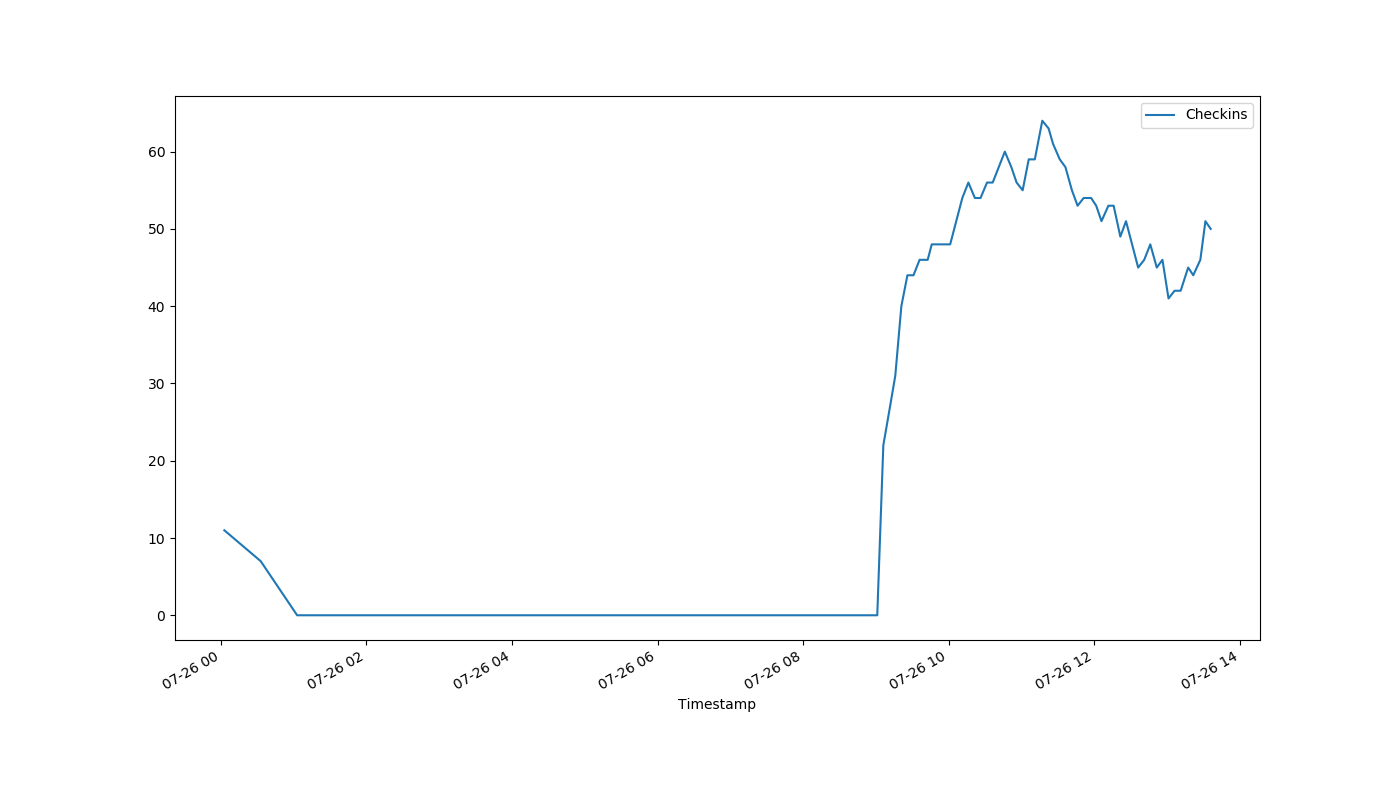
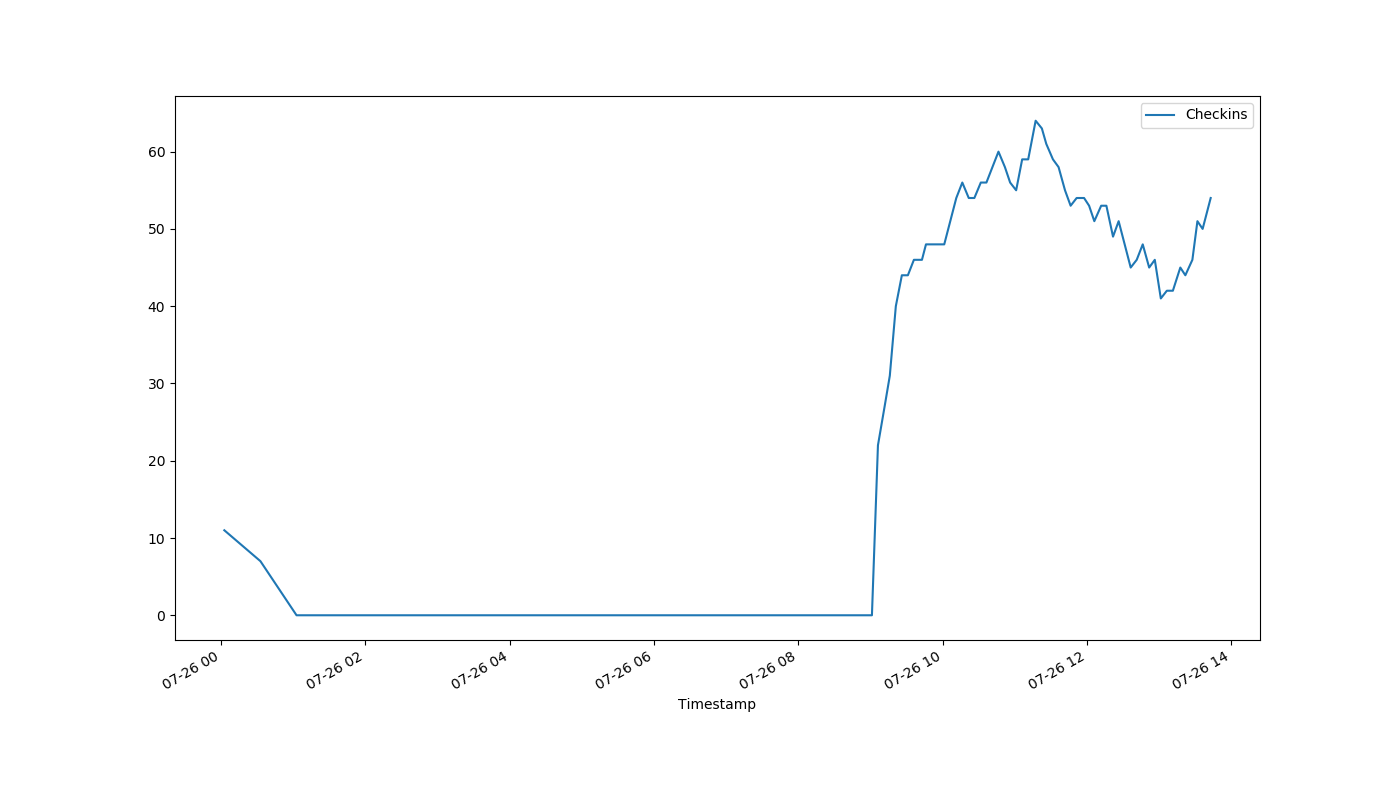
auto-Jul-26-13:44:10

diff --git a/index.html b/index.html
@@ -1,1 +1,1 @@
-<!DOCTYPE html><html><head><meta http-equiv="refresh" content="30"><link rel='stylesheet' href='holmcurrent.css'></head><body><p id='count'>-1</p><div id='graph-wrap'><img id='graph' src='holmgraph-Jul-26.png'></div><p id='updated'>Last updated 13:42:04 / 13:41:22</p></body></html>
+<!DOCTYPE html><html><head><meta http-equiv="refresh" content="30"><link rel='stylesheet' href='holmcurrent.css'></head><body><p id='count'>54</p><div id='graph-wrap'><img id='graph' src='holmgraph-Jul-26.png'></div><p id='updated'>Last updated 13:43:04 / 13:42:42</p></body></html>
